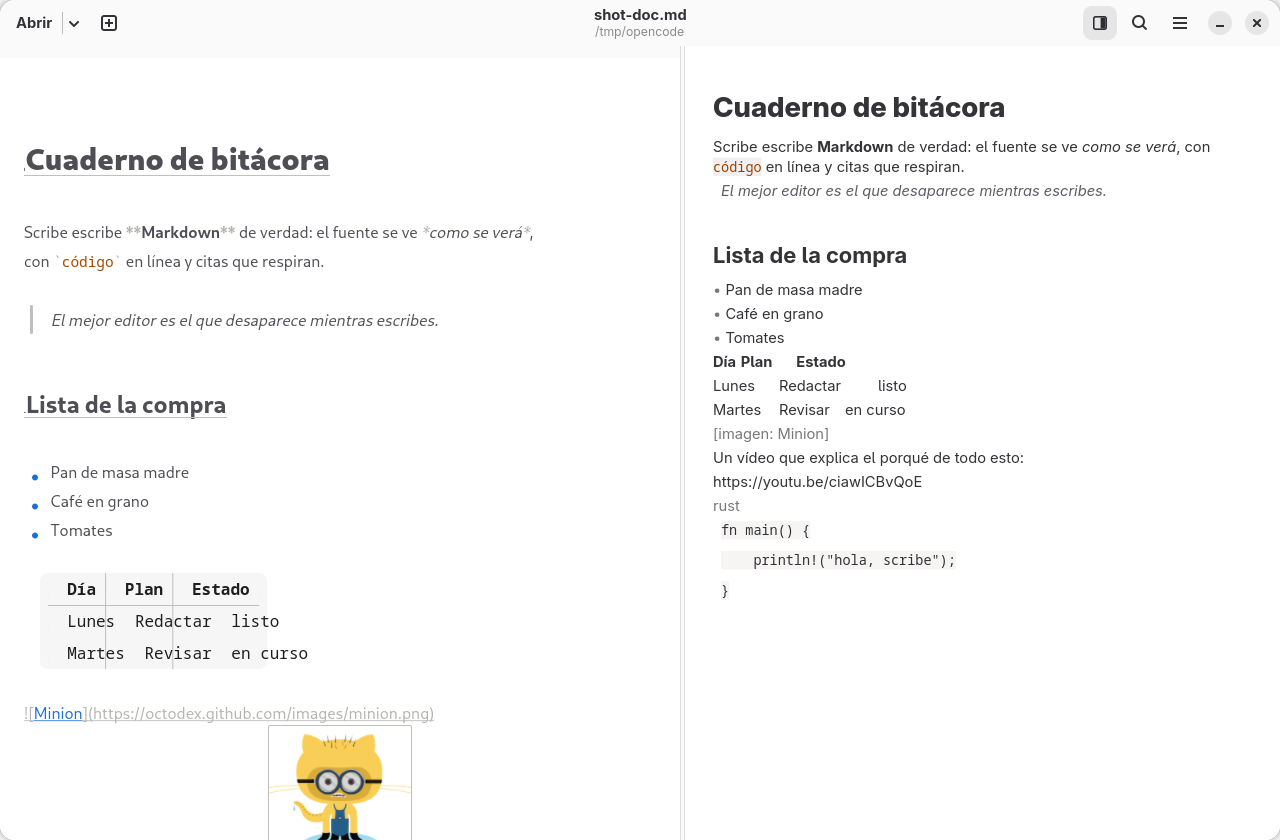
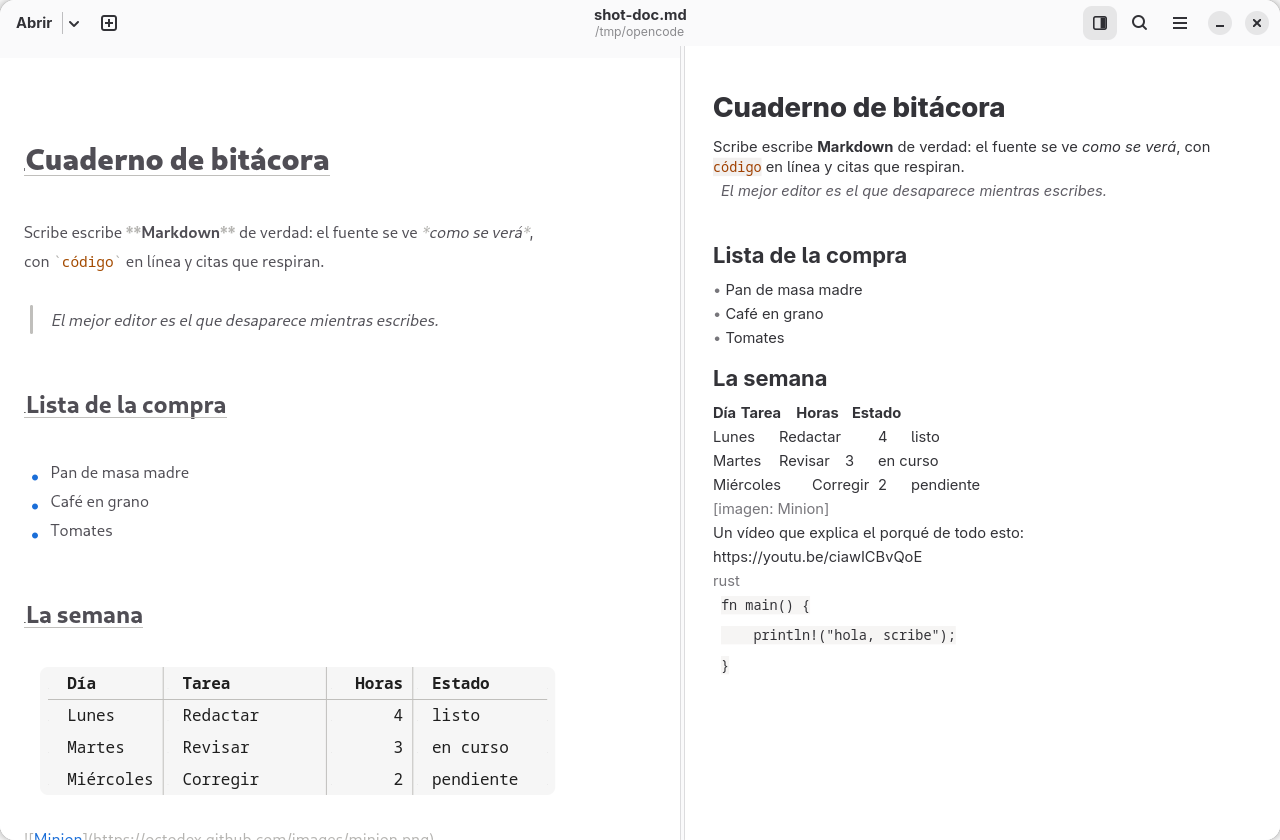
docs: add English screenshots and show off the table rendering
Each README now shows the interface in its own language. The sample
document uses a table with right-aligned numbers and padded columns so the
delimiter-row grid and the alignment markers are visible in every shot, and
the Preferences capture is refreshed in both languages (it still showed the
window from before the colour scheme setting existed).

diff --git a/README.md b/README.md
@@ -12,9 +12,9 @@
 
 <p align="center">
   <picture>
-    <source media="(prefers-color-scheme: dark)" srcset="assets/hero-es-dark.png">
-    <source media="(prefers-color-scheme: light)" srcset="assets/hero-es-light.png">
-    <img alt="Scribe editor window showing Markdown text with live WYSIWYG rendering" src="assets/hero-es-light.png" width="800">
+    <source media="(prefers-color-scheme: dark)" srcset="assets/hero-en-dark.png">
+    <source media="(prefers-color-scheme: light)" srcset="assets/hero-en-light.png">
+    <img alt="Scribe editor window showing Markdown text with live WYSIWYG rendering" src="assets/hero-en-light.png" width="800">
   </picture>
 </p>
 
@@ -163,36 +163,34 @@ thumbnails referenced by the text are downloaded to be painted and cached under
 
 ## Screenshots
 
-The interface is currently in Spanish.
-
 **Main window with live Markdown rendering**
 
 <picture>
-  <source media="(prefers-color-scheme: dark)" srcset="assets/hero-es-dark.png">
-  <source media="(prefers-color-scheme: light)" srcset="assets/hero-es-light.png">
-  <img alt="Main editor window with headings, bold, italic, a quote, a list, a table and a picture painted from a URL" src="assets/hero-es-light.png" width="800">
+  <source media="(prefers-color-scheme: dark)" srcset="assets/hero-en-dark.png">
+  <source media="(prefers-color-scheme: light)" srcset="assets/hero-en-light.png">
+  <img alt="Main editor window with headings, bold, italic, a quote, a list, an aligned table and a picture painted from a URL" src="assets/hero-en-light.png" width="800">
 </picture>
 
 **Split preview (toggled from the header icon) and find in the document**
 
 <p align="center">
-  <img alt="Editor with the split preview on the right rendering the same document" src="assets/screenshot-split-es-light.png" width="800">
+  <img alt="Editor with the split preview on the right rendering the same document" src="assets/screenshot-split-en-light.png" width="800">
 </p>
 
 <p align="center">
-  <img alt="Find bar inside the editor pane with next and previous" src="assets/screenshot-find-es-light.png" width="800">
+  <img alt="Find bar inside the editor pane with next and previous" src="assets/screenshot-find-en-light.png" width="800">
 </p>
 
 **Preferences window**
 
 <p align="center">
-  <img alt="Preferences window with Appearance, Editor and Export pages" src="assets/screenshot-preferences-es-light.png" width="800">
+  <img alt="Preferences window with Appearance, Editor and Export pages" src="assets/screenshot-preferences-en-light.png" width="800">
 </p>
 
 **Focus mode (everything dimmed except the current paragraph)**
 
 <p align="center">
-  <img alt="Focus mode in the editor showing a dimmed document with the current paragraph highlighted" src="assets/screenshot-focus-es-light.png" width="800">
+  <img alt="Focus mode in the editor showing a dimmed document with the current paragraph highlighted" src="assets/screenshot-focus-en-light.png" width="800">
 </p>
 
 ## Build requirements

diff --git a/README.es.md b/README.es.md
@@ -181,14 +181,12 @@ cachean en `~/.cache/scribe/images`. Nunca se sube nada. Ver
 
 ## Capturas
 
-La interfaz está actualmente en español.
-
 **Ventana principal con render Markdown en vivo**
 
 <picture>
   <source media="(prefers-color-scheme: dark)" srcset="assets/hero-es-dark.png">
   <source media="(prefers-color-scheme: light)" srcset="assets/hero-es-light.png">
-  <img alt="Ventana principal del editor con cabeceras, negrita, cursiva, una cita, una lista, una tabla y una imagen pintada desde una URL" src="assets/hero-es-light.png" width="800">
+  <img alt="Ventana principal del editor con cabeceras, negrita, cursiva, una cita, una lista, una tabla alineada y una imagen pintada desde una URL" src="assets/hero-es-light.png" width="800">
 </picture>
 
 **Vista dividida (con el icono de la cabecera) y buscar en el documento**
